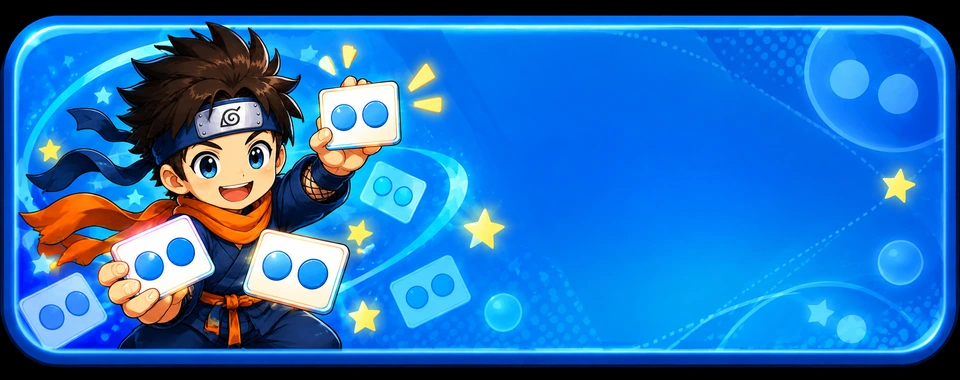
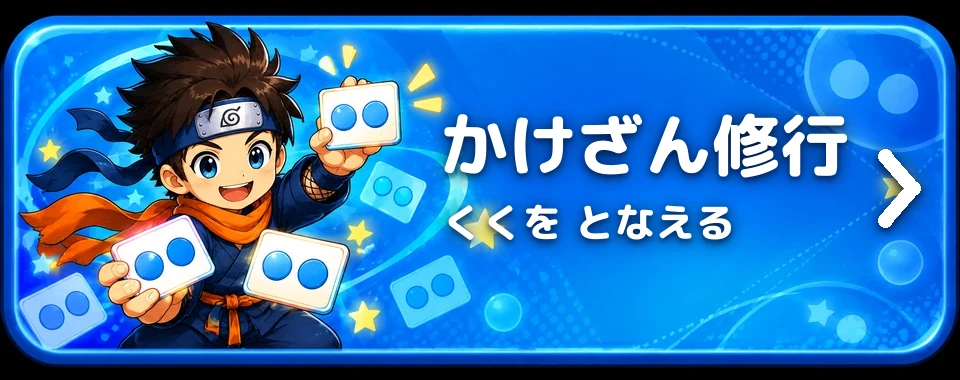
feat(かけざん修行): 絵を入れて一覧・しゅぎょう いちらんに載せる
- ランディングのヒーローに kuku-lp-hero.jpg を置く。ほかの修行の透過キャラと違い
  背景つきの水彩なので、3:2の額（白い縁＋角丸）に切って右の列に置く。
  キーアート待ちの1カラム指定は消す
- OGP画像 kuku-lp-hero-og.jpg（1200x630）を作り、ランディングとアプリ本体に入れる
- edu-tools・apps に さんすう の次へカードを足す
- しゅぎょう いちらん に7本目として登録。既存6本の並びは変えず、3段目の中央に置く
  （真上がフォニックスの緑、同じ青系のカタカナとは接しない）
- しゅぎょう札にアプリ名・説明・矢印を合成（ほかの6枚と同じ体裁。M PLUS Rounded 1c）

実測：ランディング8サイズ・アプリ8サイズで横スクロールなし、
PC・タブレット横で7本目が真ん中の列、スマホではヒーローの絵が額の幅に収まる。

Changed region(s): [[0.4375, 0.2895, 0.9688, 0.6368], [0.4375, 0.5211, 0.7812, 0.6658]]

diff --git a/tools/kuku/landing.html b/tools/kuku/landing.html
@@ -20,7 +20,8 @@
 <meta property="og:title" content="かけざん修行（九九）｜九九の練習アプリ">
 <meta property="og:description" content="九九81問を となえかた で覚える無料アプリ。まちがえたら●の図で数えなおせます。1セット10問・登録不要。">
 <meta property="og:url" content="https://www.beetle-web.jp/tools/kuku/landing.html">
-<meta name="twitter:card" content="summary"><meta name="twitter:title" content="かけざん修行（九九）｜九九の練習アプリ"><meta name="twitter:description" content="九九81問を となえかた で覚える無料の練習ドリル。まちがえたら●の図が出ます。">
+<meta property="og:image" content="https://www.beetle-web.jp/assets/images/kuku-lp-hero-og.jpg"><meta property="og:image:width" content="1200"><meta property="og:image:height" content="630">
+<meta name="twitter:card" content="summary_large_image"><meta name="twitter:title" content="かけざん修行（九九）｜九九の練習アプリ"><meta name="twitter:description" content="九九81問を となえかた で覚える無料の練習ドリル。まちがえたら●の図が出ます。"><meta name="twitter:image" content="https://www.beetle-web.jp/assets/images/kuku-lp-hero-og.jpg">
 <script type="application/ld+json">{"@context":"https://schema.org","@type":"SoftwareApplication","name":"かけざん修行（九九）","applicationCategory":"EducationalApplication","operatingSystem":"Web","offers":{"@type":"Offer","price":"0","priceCurrency":"JPY"},"url":"https://www.beetle-web.jp/tools/kuku/landing.html","description":"九九81問を、教科書どおりの となえかた（さんにが ろく）で覚える無料Webアプリ。となえかた・しき・ぎゃくびきの3つのといかた、段ごとの出題、まちがえたときの●のアレイ図つき。"}</script>
 <script type="application/ld+json">{"@context":"https://schema.org","@type":"HowTo","name":"かけざん修行の使い方","step":[{"@type":"HowToStep","position":1,"name":"だんと といかたを えらぶ","text":"1の だん から 9の だん、ぜんぶまぜた「ばらばら」まで。といかたは「となえかた」「しき」「ぎゃくびき」の3つです。"},{"@type":"HowToStep","position":2,"name":"10問こたえる","text":"4つの中からえらぶだけ。声に出してとなえてからえらぶと、もっと覚えられます。"},{"@type":"HowToStep","position":3,"name":"●の図でたしかめる","text":"わからないときは「● で みる」。まちがえたときは自動で出ます。3×2なら●●●が2つならびます。"}]}</script>
 <script type="application/ld+json">{"@context":"https://schema.org","@type":"FAQPage","mainEntity":[{"@type":"Question","name":"何年生むけですか？","acceptedAnswer":{"@type":"Answer","text":"九九を習う小学2年生の2学期ごろからです。段ごとに選べるので、習った段だけを練習できます。3年生以上のわり算のつまずき直し（ぎゃくびき）にも使えます。"}},{"@type":"Question","name":"読み上げ（音声）はありますか？","acceptedAnswer":{"@type":"Answer","text":"入れていません。九九は子ども自身が声に出して覚えるもので、アプリが平坦な抑揚で読むとリズムをかえって壊すためです。画面の「となえかた」を見ながら、お子さん自身に声に出してもらってください。"}},{"@type":"Question","name":"「にしが はち」の「が」は何ですか？","acceptedAnswer":{"@type":"Answer","text":"こたえが1けたのときだけ入る言い方です（にしが はち／にご じゅう）。このアプリは81問すべての唱え方を手で持っているので、「さざんが」「さんぱ」「ごっく」「はっぱ」のような音の変わるところも教科書どおりに出ます。"}},{"@type":"Question","name":"「ぎゃくびき」とは何ですか？","acceptedAnswer":{"@type":"Answer","text":"「8は なん×なん？」と、こたえから式を探す問いかたです。わり算の考え方にそのままつながります。3×2と2×3のように積が同じ式は混ぜていません（正解が2つになってしまうためです）。"}},{"@type":"Question","name":"段はえらべますか？","acceptedAnswer":{"@type":"Answer","text":"えらべます。1の段から9の段まで、それと81問ぜんぶを混ぜた「ばらばら」があります。習った段だけ、苦手な段だけ、という使い方ができます。"}},{"@type":"Question","name":"無料で使えますか？","acceptedAnswer":{"@type":"Answer","text":"無料です。登録もインストールも要りません。ブラウザだけで使えます。"}},{"@type":"Question","name":"成績は保存されますか？","acceptedAnswer":{"@type":"Answer","text":"保存していません。出題も採点もブラウザの中（この端末の上）で行っていて、サーバーには何も送信していません。ページを閉じると消えます。"}}]}</script>

diff --git a/css/ninja-landing.css b/css/ninja-landing.css
@@ -12,7 +12,7 @@ body.ninja-lp-kanji { --nl-accent:#b64632;--nl-dark:#72271d;--nl-soft:#efc9a5;--
 body.ninja-lp-katakana { --nl-accent:#168c8b;--nl-dark:#0c5960;--nl-soft:#b9dfd3;--nl-art:url('/assets/images/ninja/katakana-infiltration.webp'); }
 body.ninja-lp-romaji { --nl-accent:#7652b8;--nl-dark:#452b79;--nl-soft:#d3c0ee;--nl-art:url('/assets/images/ninja/romaji-cipher.webp'); }
 body.ninja-lp-phonics { --nl-accent:#4b8e42;--nl-dark:#285d25;--nl-soft:#c5dba2;--nl-art:url('/assets/images/ninja/phonics-listen.webp'); }
-body.ninja-lp-kuku { --nl-accent:#2f6ea8;--nl-dark:#1b4670;--nl-soft:#bcd8ef;--nl-art:none; }
+body.ninja-lp-kuku { --nl-accent:#2f6ea8;--nl-dark:#1b4670;--nl-soft:#bcd8ef;--nl-art:url('/assets/images/kuku-lp-hero.jpg'); }
 .ninja-landing main {
   overflow:hidden;
   background:#fffaf0;
@@ -457,9 +457,18 @@ body.ninja-lp-phonics .eal-card-num { display:none; }
 .ninja-landing .eal-grid-3 .eal-card h3 { font-size:17.5px; line-height:1.5; }
 .ninja-kids :is(.tk-step,.kj-step,.kt-step,.rj-step,.pn-step)>h3 { font-size:15.5px; line-height:1.5; }
 
-/* かけざん修行はキーアート待ち（2026-09-15）。ヒーローを1カラムに落とし、
-   絵が入るはずの明るい帯も出さない。ヒーローまわりの指定はこのファイルの後ろほど強いので、
-   打ち消しはかならず末尾に置く。絵ができたら --nl-art を足して、この節ごと消す。 */
-.ninja-lp-kuku .eal-hero { background:linear-gradient(120deg,var(--nl-deeper),var(--nl-deep)); }
-.ninja-lp-kuku .eal-hero .eal-container { grid-template-columns:minmax(0,1fr)!important; min-height:300px; }
-.ninja-lp-kuku .eal-hero .eal-container::after { display:none!important; }
+/* かけざん修行のヒーローは、ほかの修行のような透過のキャラではなく背景つきの水彩（2026-09-16）。
+   contain のままだと四角い絵が浮くので、3:2の額に切って白い縁と角丸をつける。
+   ヒーローまわりの指定はこのファイルの後ろほど強いので、かならず末尾に置く。 */
+.ninja-lp-kuku .eal-hero .eal-container::after {
+  align-self:center;
+  min-height:0;
+  aspect-ratio:3/2;
+  background:var(--nl-art) center/cover no-repeat;
+  border-radius:16px;
+  box-shadow:0 0 0 6px #fff,0 22px 40px rgba(0,0,0,.3);
+  filter:none;
+}
+@media (max-width:767px) {
+  .ninja-lp-kuku .eal-hero .eal-container::after { width:min(100%,420px); justify-self:center; min-height:0; }
+}

diff --git a/js/ninja-links.js b/js/ninja-links.js
@@ -14,11 +14,12 @@
     romaji:   { name: 'ローマ字修行',     note: 'ローマ字を おぼえる', img: 'nk-link-romaji.webp',   href: '/tools/romaji/' },
     phonics:  { name: 'フォニックス修行', note: 'えいごの おと',       img: 'nk-link-phonics.webp',  href: '/tools/phonics/' },
     tokei:    { name: 'とけい修行',       note: 'とけいを よむ',       img: 'nk-link-tokei.webp',    href: '/tools/tokei/' },
-    sansu:    { name: 'さんすう',         note: 'けいさんを する',     img: 'nk-link-sansu.webp',    href: '/tools/sansu-app/' }
+    sansu:    { name: 'さんすう',         note: 'けいさんを する',     img: 'nk-link-sansu.webp',    href: '/tools/sansu-app/' },
+    kuku:     { name: 'かけざん修行',     note: 'くくを となえる',     img: 'nk-link-kuku.webp',     href: '/tools/kuku/' }
   };
 
-  /* 6つ全部を、いつも同じ順で出す（2026-09-03改定）。
-     2列に並べたときに3行ちょうどで埋まるよう、いま開いている修行も外さない。
+  /* 全部を、いつも同じ順で出す（2026-09-03改定）。
+     いま開いている修行も外さない。
      いま開いているものは aria-current="page" を付けて「ここにいる」と分かるようにする。
 
      並び順は3列×2行に置いたときの絵の色で決める（2026-09-09改定）。
@@ -29,8 +30,12 @@
        とけい(橙)    フォニックス(緑)  ローマ字(紫)
 
      となり合う色の差は最小71°、ななめでも89°。旧順は ローマ字 の真下が さんすう で
-     紫が縦に並んでいた。 */
-  var ORDER = ['sansu', 'katakana', 'kanji', 'tokei', 'phonics', 'romaji'];
+     紫が縦に並んでいた。
+
+     7本目の かけざん(青210°) は3段目の中央に置く（2026-09-16）。真上が フォニックス(緑)で差96°、
+     ななめ上が とけい・ローマ字。同じ青系の カタカナ(185°) とは離れる。
+     既存6本の並びは変えない（3段目の中央寄せは ninja-kids.css の .nk-link:last-child 側）。 */
+  var ORDER = ['sansu', 'katakana', 'kanji', 'tokei', 'phonics', 'romaji', 'kuku'];
 
   var TITLE = 'しゅぎょう いちらん';
   var IMG_BASE = '/assets/images/ninja/';

diff --git a/edu-tools.html b/edu-tools.html
@@ -148,6 +148,16 @@
         <p class="tool-desc">たしざん・ひきざん・九九・わりざん・さくらんぼざんを、宇宙を旅しながられんしゅう。1セット10問、えらぶだけのかんたん操作。幼児〜小学生のお子さんに。</p>
         <span class="tool-tag">詳しく見る →</span>
       </a>
+      <a class="tool-card" href="/tools/kuku/landing.html">
+        <span class="service-peek" aria-hidden="true">
+          <span class="service-peek-circle"><img class="service-peek-img" src="/assets/images/peek/peek-01.jpg" width="256" height="256" alt="" loading="lazy"></span>
+          <span class="service-peek-label">クリック</span>
+        </span>
+        <div class="tool-thumb"><img src="/assets/images/edu-thumbs/kuku-ninja-friends.jpg" alt="2つずつ並んだおはじきのトレーを指さして数える、忍者の主人公と仲間たちのイラスト" width="640" height="360" loading="lazy"></div>
+        <div class="tool-card-top"><div class="tool-name">かけざん修行</div></div>
+        <p class="tool-desc">「にしが はち」と、九九を教科書どおりの となえかた のまま練習。まちがえたら●の図が出て「3が2つぶん」と数えなおせる。ぎゃくびきで、わりざんの準備も。</p>
+        <span class="tool-tag">詳しく見る →</span>
+      </a>
       <a class="tool-card" href="/tools/tokei/landing.html">
         <span class="service-peek" aria-hidden="true">
           <span class="service-peek-circle"><img class="service-peek-img" src="/assets/images/peek/peek-01.jpg" width="256" height="256" alt="" loading="lazy"></span>

diff --git a/apps.html b/apps.html
@@ -109,6 +109,12 @@
         <p class="tool-desc">たしざん・ひきざん・九九・わりざん・さくらんぼざんを、宇宙を旅しながられんしゅう。1セット10問、えらぶだけのかんたん操作。幼児〜小学生のお子さんに。</p>
         <span class="tool-tag">詳しく見る →</span>
       </a>
+      <a class="tool-card" href="/tools/kuku/landing.html">
+        <div class="tool-thumb"><img src="/assets/images/edu-thumbs/kuku-ninja-friends.jpg" alt="2つずつ並んだおはじきのトレーを指さして数える、忍者の主人公と仲間たちのイラスト" width="640" height="360" loading="lazy"></div>
+        <div class="tool-card-top"><div class="tool-name">かけざん修行</div></div>
+        <p class="tool-desc">「にしが はち」と、九九を教科書どおりの となえかた のまま練習。まちがえたら●の図が出て「3が2つぶん」と数えなおせる。ぎゃくびきで、わりざんの準備も。</p>
+        <span class="tool-tag">詳しく見る →</span>
+      </a>
       <a class="tool-card" href="/tools/eigo/landing.html">
         <div class="tool-thumb"><img src="/assets/images/edu-thumbs/eigo.jpg" alt="タブレットで英単語を読み上げる親子のイラスト" width="640" height="360" loading="lazy"></div>
         <div class="tool-card-top"><div class="tool-name">えいごよんで！</div></div>

diff --git a/tools/kuku/index.html b/tools/kuku/index.html
@@ -20,9 +20,13 @@
 <meta property="og:title" content="かけざん修行（九九） | BEETLE">
 <meta property="og:description" content="九九81問を となえかた で覚える無料アプリ。段ごとに練習でき、まちがえたら●の図で数えなおせます。1セット10問・登録不要。">
 <meta property="og:url" content="https://www.beetle-web.jp/tools/kuku/landing.html">
-<meta name="twitter:card" content="summary">
+<meta property="og:image" content="https://www.beetle-web.jp/assets/images/kuku-lp-hero-og.jpg">
+<meta property="og:image:width" content="1200">
+<meta property="og:image:height" content="630">
+<meta name="twitter:card" content="summary_large_image">
 <meta name="twitter:title" content="かけざん修行（九九） | BEETLE">
 <meta name="twitter:description" content="九九81問を となえかた で覚える無料アプリ。段ごとに練習でき、まちがえたら●の図で数えなおせます。1セット10問・登録不要。">
+<meta name="twitter:image" content="https://www.beetle-web.jp/assets/images/kuku-lp-hero-og.jpg">
 <link rel="canonical" href="https://www.beetle-web.jp/tools/kuku/landing.html">
 <script type="application/ld+json">
 {

diff --git a/css/ninja-kids.css b/css/ninja-kids.css
@@ -2626,7 +2626,7 @@ body.ninja-phonics { --nk-items:url('/assets/images/ninja/items/phonics-items.we
 }
 /* さんすうは紙面が濃紺。見出しだけ紙面に合う明るさに振る */
 .ninja-space .nk-links-title { color:#9fb3d9; }
-/* 幅のある画面は3列×2行。6つ全部並べても絵の比率のまま250px前後に収まる。
+/* 幅のある画面は3列。全部並べても絵の比率のまま250px前後に収まる。
    スマホは3列にすると絵の中の文字が読めなくなるので1列のまま（そのぶん縦に伸びる）。 */
 .nk-links-list {
   display:grid;
@@ -2641,6 +2641,8 @@ body.ninja-phonics { --nk-items:url('/assets/images/ninja/items/phonics-items.we
     gap:12px 14px;
     width:100%;
   }
+  /* 3列で割り切れず1枚だけ余ったら、左端ではなく真ん中の列に置く（7本になった 2026-09-16） */
+  .nk-link:last-child:nth-child(3n+1) { grid-column:2; }
 }
 .nk-link {
   display:block;

diff --git a/specs/tools-kuku-landing.md b/specs/tools-kuku-landing.md
@@ -4,7 +4,7 @@ urls: ["/tools/kuku/landing.html"]
 canonical: self
 sitemap: true
 title_contains: "かけざん修行"
-og_image: "none"
+og_image: "/assets/images/kuku-lp-hero-og.jpg"
 required_selectors: ["#site-header", ".eal-hero", "#howto", "#for-family", "#faq", ".eal-final", ".eal-footer"]
 ---
 
@@ -16,12 +16,12 @@ required_selectors: ["#site-header", ".eal-hero", "#howto", "#for-family", "#faq
 - **構成**: ヒーロー → 3つの といかた → ●のアレイ図（WHY）→ 使い方3ステップ → おうちのかたへ → FAQ → CTA
 - **訴求の軸**: 「九九は計算ではなく音で覚える」。速算ドリルとして売らない。
   ほかの九九アプリとの違いは**唱え方をそのまま出すこと**と**まちがえたら●の図が自動で出ること**の2点
-- **ヒーロー画像（キーアート）は未設定**。`body.ninja-lp-kuku` を `--nl-art:none` にし、
-  `ninja-landing.css` でヒーローを1カラムに落としてある。**絵ができたら `--nl-art` を足して、その1カラム指定2行を消す**
-- **OGP画像も未設定**（`og:image` を出していない。仕様書も `og_image: "none"`）。
-  `kuku-...-og.jpg`（1200x630）を作ったら、ここと `tools/kuku/index.html` の両方に入れて仕様書を直す
+- **ヒーロー画像**は `assets/images/kuku-lp-hero.jpg`（1080x720・お母さんと女の子の水彩。2026-09-16）。
+  ほかの修行は透過の忍者キャラを置くが、これは背景つきの絵なので `ninja-landing.css` 末尾で
+  **3:2の額（白い縁＋角丸）に切って右の列に置く**。`--nl-art` にこの絵を入れている
+- **OGP画像**は `assets/images/kuku-lp-hero-og.jpg`（1200x630。ヒーローから切り出し）。アプリ本体 `tools/kuku/index.html` と共用
 - **SEO**: SoftwareApplication・HowTo・FAQPage、canonical self。アプリ本体の canonical もこのURLへ向ける
 - **FAQはアプリ画面には置かない**（アプリは あそびかた3ステップだけ）。ここが1か所。
   変えたら JSON-LD の FAQPage も同内容で直す
 - **手動確認観点**: CTAが `/tools/kuku/` へ向いていること／FAQ本文と JSON-LD が同内容であること／
-  ヒーローの右側に空白の列が出ていないこと（キーアート未設定の間）
+  ヒーローの絵が額からはみ出たり、スマホで横に伸びたりしていないこと

diff --git a/specs/_common.md b/specs/_common.md
@@ -79,15 +79,16 @@ LP型の枠＋固定ルール:
       区切りは**両側に罫を引いた見出し**だけで、この区画に**下地（背景）は敷かない**
     - ボタンは**1枚絵**（`/assets/images/ninja/nk-link-*.webp`・960x380）。アプリ名と説明が絵に入っているので、
       リンクの読み上げは `<img>` の `alt`（「かんじ修行（かんじの よみかた）」）が担う。`width`/`height` は必須
-    - **6つ全部を、いつも同じ順で出す**（`js/ninja-links.js` の `ORDER` が正）。
-      いま開いている修行も外さない（3列で2行ちょうどに埋まるため）。
+    - **全部（7本）を、いつも同じ順で出す**（`js/ninja-links.js` の `ORDER` が正）。
+      いま開いている修行も外さない。
       いま開いているものには `aria-current="page"` を付け、CSSで薄く表示して「ここにいる」と分かるようにする
     - **並び順は絵の地色で決める**（2026-09-09改定）。地色は さんすう277° / ローマ字274° /
       カタカナ185° / フォニックス114° / とけい20° / かんじ6° で、**紫どうし（さんすう・ローマ字）と
       暖色どうし（かんじ・とけい）の2組が近い**。この2組を3列×2行の**対角**に置き、
       となり・ななめのどちらでも接しないようにする（現行順はとなり最小71°・ななめ最小89°）。
+      7本目の かけざん（青210°）は3段目の中央。真上が フォニックス、同じ青系の カタカナとは接しない（2026-09-16）。
       修行を足すときは同じ測りかたで色相を見て並べ直す
-    - **幅のある画面（768px以上）は3列×2行**、スマホは1列。スマホで3列にすると絵の中の文字が読めない
+    - **幅のある画面（768px以上）は3列**（割り切れず1枚余ったら真ん中の列に置く）、スマホは1列。スマホで3列にすると絵の中の文字が読めない
     - 区画の幅の上限は **900px**（1枚の高さ約85〜110px）。スマホの1列は上限420px
     - リンク先は**アプリ本体**（`/tools/kanji/` など）。ランディングは挟まない（押すのは子どもなので）
 - 更新日表記「更新日：YYYY-MM-DD」（Vercelアプリはビルド日自動焼き込み・静的アプリは手動）

diff --git a/specs/tools-kuku.md b/specs/tools-kuku.md
@@ -4,7 +4,7 @@ urls: ["/tools/kuku/"]
 canonical: "https://www.beetle-web.jp/tools/kuku/landing.html"
 sitemap: false
 title_contains: "かけざん修行"
-og_image: "none"
+og_image: "/assets/images/kuku-lp-hero-og.jpg"
 required_selectors: ["#site-header", ".app-paper", ".site-footer-app", "#kk-app", "#howto"]
 ---
 
@@ -38,7 +38,9 @@ required_selectors: ["#site-header", ".app-paper", ".site-footer-app", "#kk-app"
 - **レスポンシブ**: [_common.md](_common.md) の「レスポンシブ共通ルール」に従う（幅は3段固定・タブレットは向きで出し分け）。
   **縦持ち・横持ちのどちらでも、ナビ＋ヒーロー＋盤面が1画面に収まる**こと。9サイズ×3モード＝27パターンで実測ずみ（2026-09-15）
 - **色**: `body.ninja-kuku` の `--nk-accent` は青 `#2f6ea8`。既存6アプリ（橙33°・赤12°・青緑179°・紫264°・緑113°）と重ならない色
-- **未了**: 背景の1枚絵（`kuku-bg-v1.webp`）・しゅぎょういちらんの札（`nk-link-kuku.webp`）・OGP画像がまだ無い。
-  絵ができたら `--nk-bg-img` を足し、`js/ninja-links.js` に kuku を登録する（7本になるので並び順を組み直す）
+- **しゅぎょう いちらん**: `nk-link-kuku.webp` を `js/ninja-links.js` に7本目として登録済み（2026-09-16）。
+  幅のある画面では3段目の中央に来る（`ninja-kids.css` の `.nk-link:last-child:nth-child(3n+1)`）
+- **OGP画像**: `kuku-lp-hero-og.jpg`（ランディングと共用）
+- **未了**: 背景の1枚絵（`kuku-bg-v1.webp`）がまだ無い。絵ができたら `ninja-kids.css` に `--nk-bg-img` を足す
 - **手動確認観点**: となえかたの「が」が正しく出ること（こたえが1けたのときだけ）／
   まちがえたときに●が自動で出ること／ぎゃくびきで同じ積の式が2つ出ていないこと
